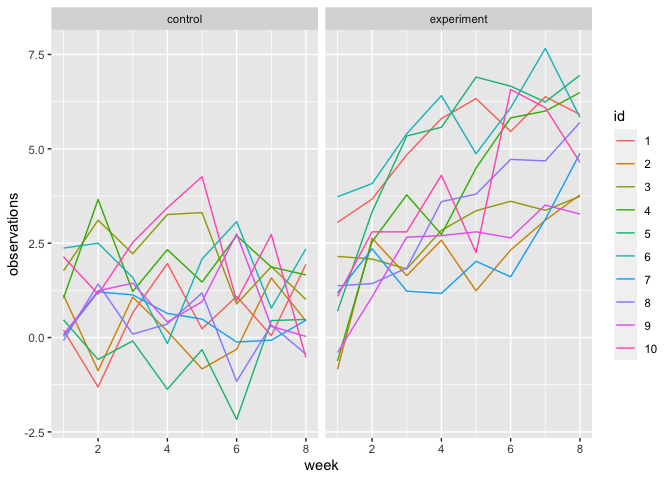
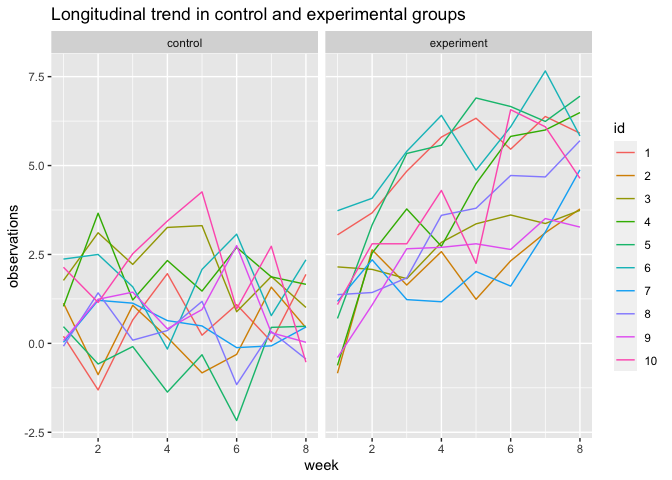
added plot title for problem 2

diff --git a/p8105_hw5_yj2803.md b/p8105_hw5_yj2803.md
@@ -136,7 +136,10 @@ df_long = tibble(files = list.files(path = "./data/")) |>
 df_long |> 
   ggplot(aes(x = week, y = observations, group = id, color = id)) +
   geom_line() +
-  facet_grid(~arm)
+  facet_grid(~arm) +
+  labs(
+    title = "Longitudinal trend in control and experimental groups"
+  )
 ```
 
 ![](p8105_hw5_yj2803_files/figure-gfm/unnamed-chunk-6-1.png)<!-- -->
